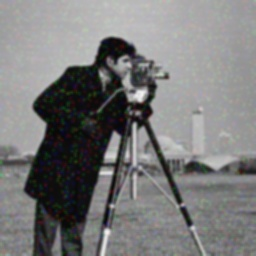
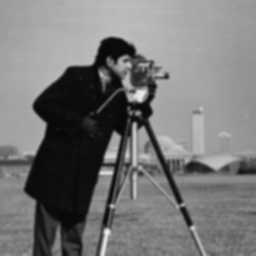
Creating function's files

diff --git a/lissage.py b/lissage.py
@@ -1,50 +1,17 @@
 import numpy as np
 import cv2 as cv
-#from bruit import gaussian_noise
-
-
-MASK = np.array([
-    [1, 2, 3, 2, 1],
-    [2, 4, 6, 4, 2],
-    [3, 6, 9, 6, 3],
-    [2, 4, 6, 4, 2],
-    [1, 2, 3, 2, 1]], np.float32) 
-
-print(MASK)
-
-img = cv.imread('cameraman.tif')
-
-#convert image from BGR (openCV format to RGB)
-image = cv.cvtColor(img, cv.COLOR_BGR2RGB)
-print(image.shape)
-
-# Generate Gaussian noise
-#img_gauss = gaussian_noise(image)
-
-gauss = np.random.normal(0, 0.5, image.size)
-gauss = gauss.reshape(image.shape[0],image.shape[1],image.shape[2]).astype('uint8')
-
-# Add the Gaussian noise to the image
-img_gauss = cv.add(image,gauss)
-cv.imwrite('new_pictures/gauss.jpeg', img_gauss)
 
 # Lissage de l'image
-kernel = np.ones((5, 5), np.float32) / 25
-img_smooth = cv.filter2D(img_gauss, -1, kernel)
-cv.imwrite('new_pictures/img_smooth.jpeg', img_smooth)
+def smoothing(image):
+    kernel = np.ones((5, 5), np.float32) / 25
+    img_smooth = cv.filter2D(image, -1, kernel)
+    cv.imwrite('new_pictures/img_smooth.jpeg', img_smooth)
+    return img_smooth
 
 
 # Lissage en utilisant le masque
-img_mask = cv.filter2D(img_gauss, -1, (MASK / 81))
-cv.imwrite('new_pictures/img_mask.jpeg', img_mask)
+def smoothing_mask(image, MASK):
+    img_mask = cv.filter2D(image, -1, (MASK / 81))
+    cv.imwrite('new_pictures/img_mask.jpeg', img_mask)
+    return img_mask
 
-Hori = np.concatenate((image, img_gauss, img_smooth, img_mask), axis=1)
-
-diff = img_mask - img_smooth
-cv.imwrite('new_pictures/difference.jpeg', diff)
-
-cv.imshow('Difference des filtres', diff)
-cv.imshow('Originale, Bruitee, Lissage et Lissage masque', Hori)
-
-cv.waitKey(0)
-#cv.destroyAllWindows()

diff --git a/partie2.py b/partie2.py
@@ -1,0 +1,41 @@
+import numpy as np
+import cv2 as cv
+from bruit import gaussian_noise
+import lissage as ls
+
+
+MASK = np.array([
+    [1, 2, 3, 2, 1],
+    [2, 4, 6, 4, 2],
+    [3, 6, 9, 6, 3],
+    [2, 4, 6, 4, 2],
+    [1, 2, 3, 2, 1]], np.float32) 
+
+print(MASK)
+
+img = cv.imread('cameraman.tif')
+
+#convert image from BGR (openCV format to RGB)
+image = cv.cvtColor(img, cv.COLOR_BGR2RGB)
+print(image.shape)
+
+# Generate Gaussian noise
+img_gauss = gaussian_noise(image)
+
+# Lissage de l'image
+img_smooth = ls.smoothing(img_gauss)
+
+# Lissage en utilisant le masque
+img_mask = ls.smoothing_mask(img_gauss, MASK)
+
+
+Hori = np.concatenate((image, img_gauss, img_smooth, img_mask), axis=1)
+
+diff = img_mask - img_smooth
+cv.imwrite('new_pictures/difference.jpeg', diff)
+
+cv.imshow('Difference des filtres', diff)
+cv.imshow('Originale, Bruitee, Lissage et Lissage masque', Hori)
+
+cv.waitKey(0)
+#cv.destroyAllWindows()

diff --git a/partie1.py b/partie1.py
@@ -1,6 +1,13 @@
 import cv2 as cv
 import numpy as np
 
+img = cv.imread('cameraman.tif')
+
+#convert image from BGR (openCV format to RGB)
+image = cv.cvtColor(img, cv.COLOR_BGR2RGB)
+
+print(image.shape)
+
 # Generate Gaussian noise
 def gaussian_noise(image):
     gauss = np.random.normal(0, 0.3, image.size)
@@ -23,3 +30,16 @@ def salt_pepper_noise(image):
     image_SP = np.where(noise == 20, 0, image_SP)
 
     return image_SP
+
+img_gauss = gaussian_noise(image)
+image_SP = salt_pepper_noise(image)
+cv.imwrite('new_pictures/salt_pepper.jpeg', image_SP)
+
+# Concatener les images horizentallement
+Hori = np.concatenate((image, img_gauss, image_SP), axis=1)
+cv.imshow('Originale, Bruit Gaussien et Bruit Sel et Poivre', Hori)
+
+
+
+
+cv.waitKey(0)
